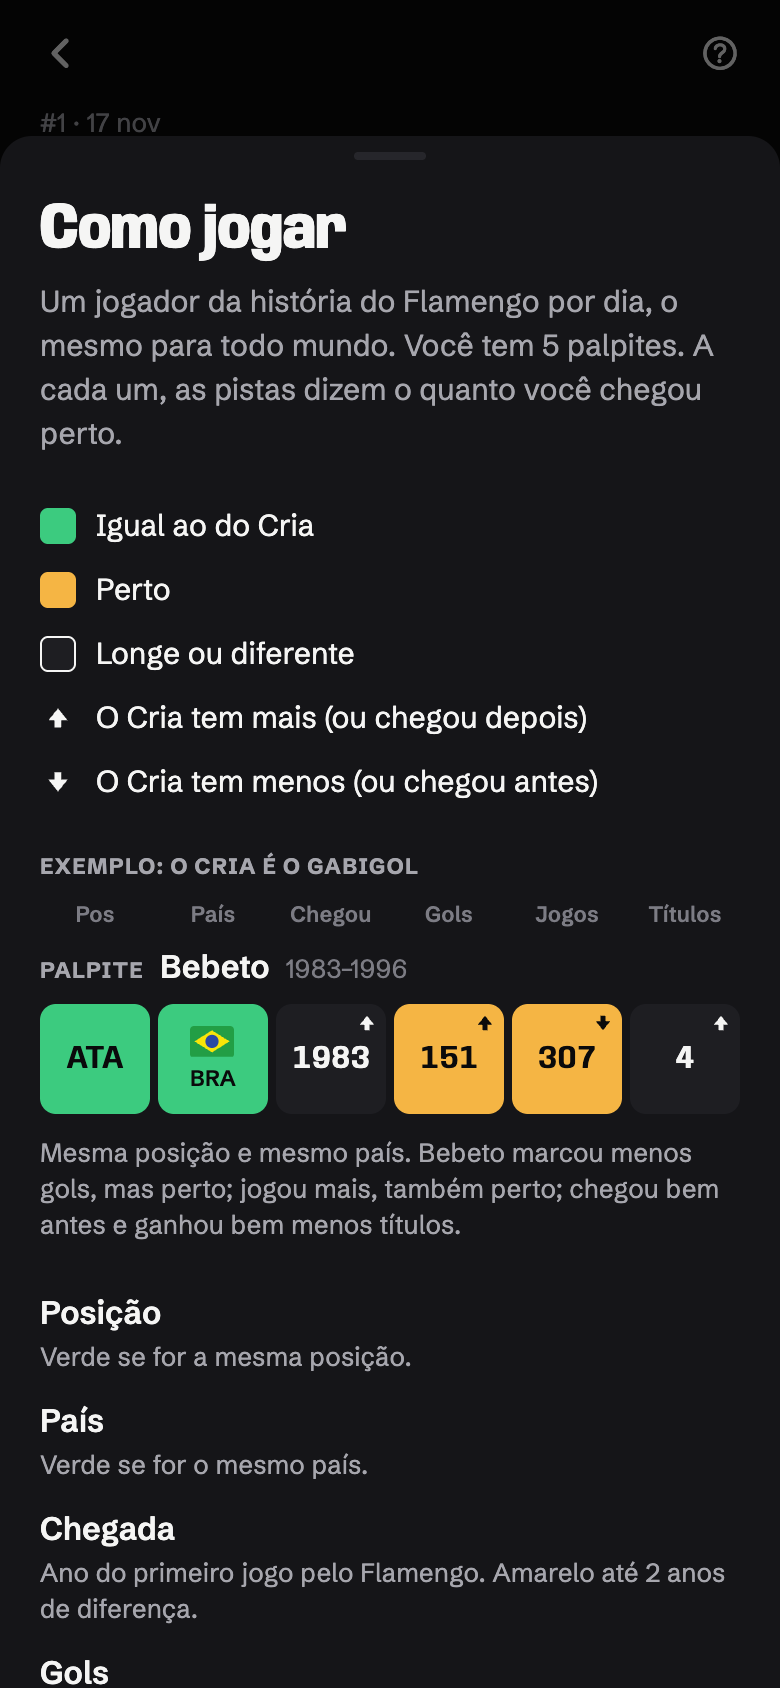
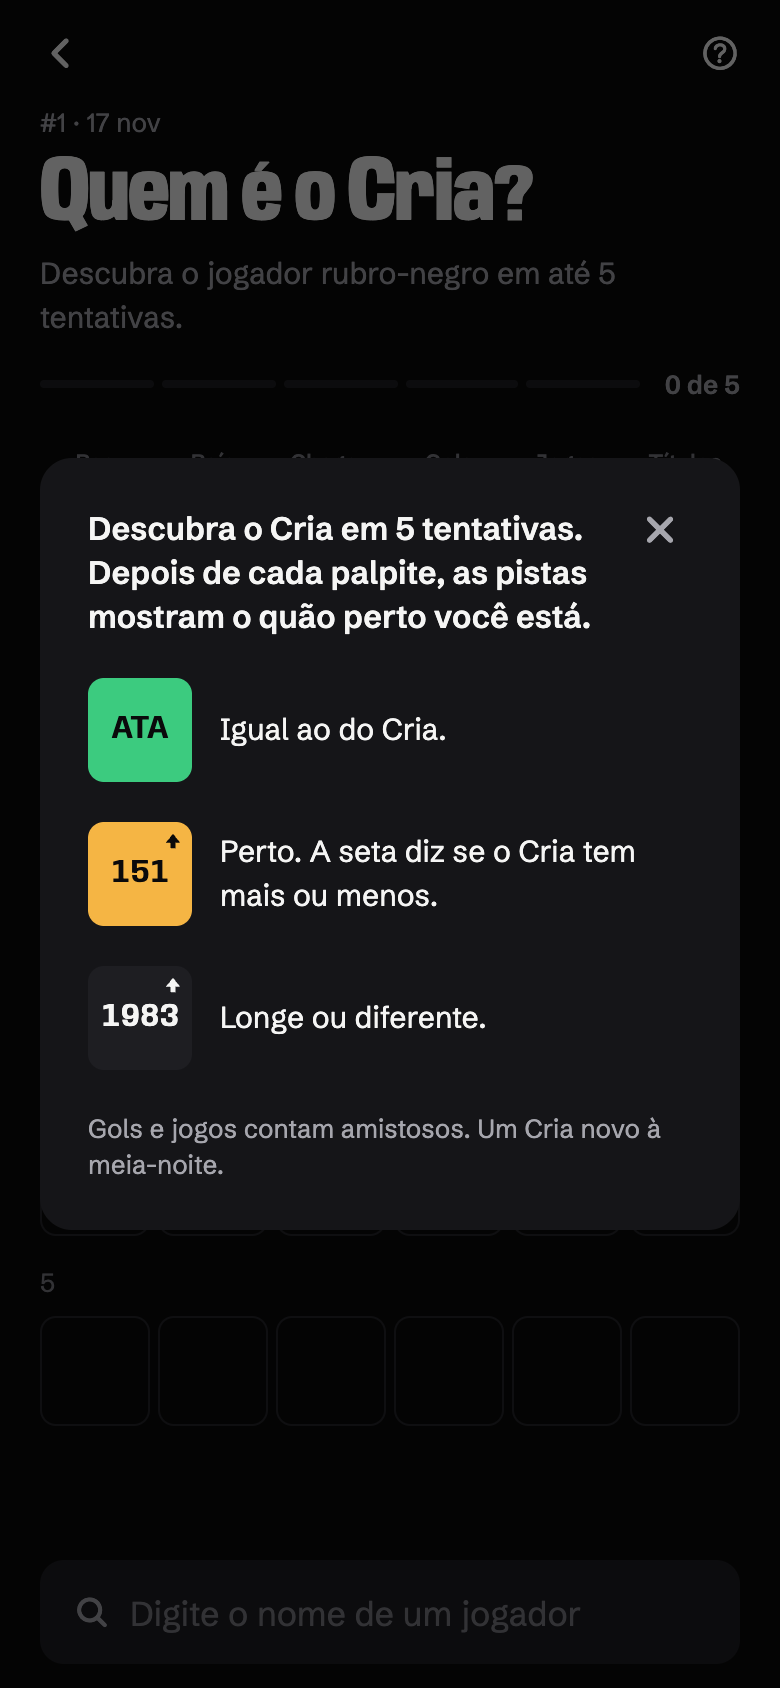
Regras mais curtas
As regras do Quem é o Cria? viram uma janela pequena no centro, no estilo
do Termo: uma frase e três exemplos de pista (igual, perto com seta,
longe). Fecha no X ou tocando fora. Sai a lista longa por atributo.

diff --git a/src/features/cria/RulesSheet.tsx b/src/features/cria/RulesSheet.tsx
@@ -1,144 +1,77 @@
-import { Modal, Pressable, ScrollView, View } from 'react-native';
-import { SafeAreaView } from 'react-native-safe-area-context';
+import { Ionicons } from '@expo/vector-icons';
+import type { ReactNode } from 'react';
+import { Modal, Pressable, View } from 'react-native';
 
-import { Button, Text, useTheme } from '@/design-system';
-import { CRIA_PLAYERS } from '@/data/cria/players';
+import { Text, useTheme } from '@/design-system';
 
-import { Arrow, GuessRow, useClueColors, type GuessView } from './Clues';
-import {
-  ATTRIBUTE_LABEL,
-  ATTRIBUTE_ORDER,
-  RULES_TEXT,
-  compare,
-  toAttributes,
-  type ClueStatus,
-} from './compare';
-import { periodLabel } from './search';
+import { ClueCell } from './Clues';
+import type { Clue } from './compare';
 
-/** Exemplo real: o secreto é o Gabigol e o palpite foi Bebeto. */
-function example(): GuessView | null {
-  const guess = CRIA_PLAYERS.find((p) => p.id === 'bebeto');
-  const secret = CRIA_PLAYERS.find((p) => p.id === 'gabigol');
-  if (!guess || !secret) return null;
-  return {
-    playerId: guess.id,
-    name: guess.name,
-    period: periodLabel(guess),
-    clues: compare(toAttributes(guess), toAttributes(secret)),
-  };
-}
+/**
+ * Regras do Quem é o Cria?: só o necessário, no estilo do Termo. Uma frase e três exemplos
+ * de pista; fecha no X ou tocando fora.
+ */
 
-function Swatch({ status, label }: { status: ClueStatus; label: string }) {
-  const { bg } = useClueColors(status);
-  const { colors, radius } = useTheme();
-  return (
-    <View style={{ flexDirection: 'row', alignItems: 'center', gap: 10 }}>
-      <View
-        style={{
-          width: 18,
-          height: 18,
-          borderRadius: radius.s / 2,
-          backgroundColor: bg,
-          // o cinza é quase o fundo do modal: um fio para ele aparecer
-          borderWidth: status === 'far' ? 1 : 0,
-          borderColor: colors.lineStrong,
-        }}
-      />
-      <Text variant="bodyM">{label}</Text>
-    </View>
-  );
-}
+const EXAMPLES: { clue: Clue; text: ReactNode }[] = [
+  { clue: { attr: 'position', status: 'exact', arrow: null, value: 'Atacante' }, text: 'Igual ao do Cria.' },
+  {
+    clue: { attr: 'goals', status: 'close', arrow: 'up', value: 151 },
+    text: 'Perto. A seta diz se o Cria tem mais ou menos.',
+  },
+  { clue: { attr: 'arrivalYear', status: 'far', arrow: 'up', value: 1983 }, text: 'Longe ou diferente.' },
+];
 
 export function RulesSheet({ visible, onClose }: { visible: boolean; onClose: () => void }) {
-  const { colors, layout, radius } = useTheme();
-  const ex = example();
+  const { colors, radius } = useTheme();
   return (
-    <Modal visible={visible} transparent animationType="slide" onRequestClose={onClose}>
+    <Modal visible={visible} transparent animationType="fade" onRequestClose={onClose}>
       <Pressable
-        style={{ flex: 1, backgroundColor: colors.scrim, justifyContent: 'flex-end' }}
         onPress={onClose}
-        accessible={false}
+        accessibilityRole="button"
+        accessibilityLabel="Fechar regras"
+        style={{ flex: 1, backgroundColor: colors.scrim, justifyContent: 'center', padding: 20 }}
       >
-        <Pressable onPress={() => undefined} accessible={false} style={{ maxHeight: '92%' }}>
-          <SafeAreaView
-            edges={['bottom']}
-            style={{
-              backgroundColor: colors.bgRaised,
-              borderTopLeftRadius: radius.l,
-              borderTopRightRadius: radius.l,
-            }}
-          >
-            <View
-              style={{
-                alignSelf: 'center',
-                width: 36,
-                height: 4,
-                borderRadius: 2,
-                backgroundColor: colors.lineHairline,
-                marginTop: 8,
-              }}
-            />
-            <ScrollView contentContainerStyle={{ padding: layout.gutter, gap: 24 }}>
-              <View style={{ gap: 8 }}>
-                <Text variant="displayM" accessibilityRole="header">
-                  Como jogar
-                </Text>
-                <Text variant="bodyM" tone="secondary">
-                  Um jogador da história do Flamengo por dia, o mesmo para todo mundo. Você tem 5 palpites. A
-                  cada um, as pistas dizem o quanto você chegou perto.
-                </Text>
-              </View>
+        <Pressable
+          onPress={() => undefined}
+          accessible={false}
+          style={{
+            backgroundColor: colors.bgRaised,
+            borderRadius: radius.l,
+            padding: 24,
+            gap: 20,
+            maxWidth: 420,
+            width: '100%',
+            alignSelf: 'center',
+          }}
+        >
+          <View style={{ flexDirection: 'row', alignItems: 'flex-start', gap: 12 }}>
+            <Text variant="titleS" style={{ flex: 1 }}>
+              Descubra o Cria em 5 tentativas. Depois de cada palpite, as pistas mostram o quão perto você
+              está.
+            </Text>
+            <Pressable
+              onPress={onClose}
+              accessibilityRole="button"
+              accessibilityLabel="Fechar"
+              hitSlop={12}
+              style={{ width: 32, height: 32, alignItems: 'center', justifyContent: 'center', marginTop: -4 }}
+            >
+              <Ionicons name="close" size={24} color={colors.inkSecondary} />
+            </Pressable>
+          </View>
 
-              <View style={{ gap: 10 }}>
-                <Swatch status="exact" label="Igual ao do Cria" />
-                <Swatch status="close" label="Perto" />
-                <Swatch status="far" label="Longe ou diferente" />
-                <View style={{ flexDirection: 'row', alignItems: 'center', gap: 10 }}>
-                  <View style={{ width: 18, alignItems: 'center' }}>
-                    <Arrow dir="up" color={colors.inkPrimary} size={12} />
-                  </View>
-                  <Text variant="bodyM">O Cria tem mais (ou chegou depois)</Text>
-                </View>
-                <View style={{ flexDirection: 'row', alignItems: 'center', gap: 10 }}>
-                  <View style={{ width: 18, alignItems: 'center' }}>
-                    <Arrow dir="down" color={colors.inkPrimary} size={12} />
-                  </View>
-                  <Text variant="bodyM">O Cria tem menos (ou chegou antes)</Text>
-                </View>
-              </View>
-
-              {ex && (
-                <View style={{ gap: 10 }}>
-                  <Text variant="overline" tone="secondary">
-                    Exemplo: o Cria é o Gabigol
-                  </Text>
-                  <GuessRow guess={ex} title="Palpite" />
-                  <Text variant="bodyS" tone="secondary">
-                    Mesma posição e mesmo país. Bebeto marcou menos gols, mas perto; jogou mais, também perto;
-                    chegou bem antes e ganhou bem menos títulos.
-                  </Text>
-                </View>
-              )}
-
-              <View style={{ gap: 12 }}>
-                {ATTRIBUTE_ORDER.map((a) => (
-                  <View key={a} style={{ gap: 2 }}>
-                    <Text variant="titleS">{ATTRIBUTE_LABEL[a]}</Text>
-                    <Text variant="bodyS" tone="secondary">
-                      {RULES_TEXT[a]}
-                    </Text>
-                  </View>
-                ))}
-              </View>
-
-              <Text variant="bodyS" tone="tertiary">
-                Um Cria novo à meia-noite, horário de Brasília. Quem ainda está no elenco entra com os números
-                do dia do desafio.
+          {EXAMPLES.map(({ clue, text }) => (
+            <View key={clue.attr} style={{ flexDirection: 'row', alignItems: 'center', gap: 14 }}>
+              <ClueCell clue={clue} size={52} />
+              <Text variant="bodyM" style={{ flex: 1 }}>
+                {text}
               </Text>
+            </View>
+          ))}
 
-              <Button label="Entendi" onPress={onClose} fullWidth />
-            </ScrollView>
-          </SafeAreaView>
+          <Text variant="bodyS" tone="secondary">
+            Gols e jogos contam amistosos. Um Cria novo à meia-noite.
+          </Text>
         </Pressable>
       </Pressable>
     </Modal>
